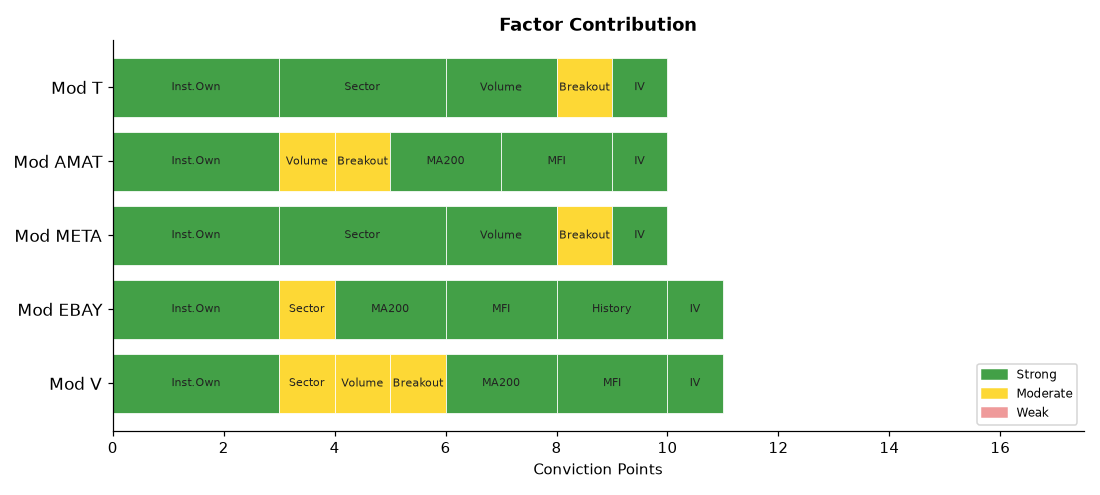
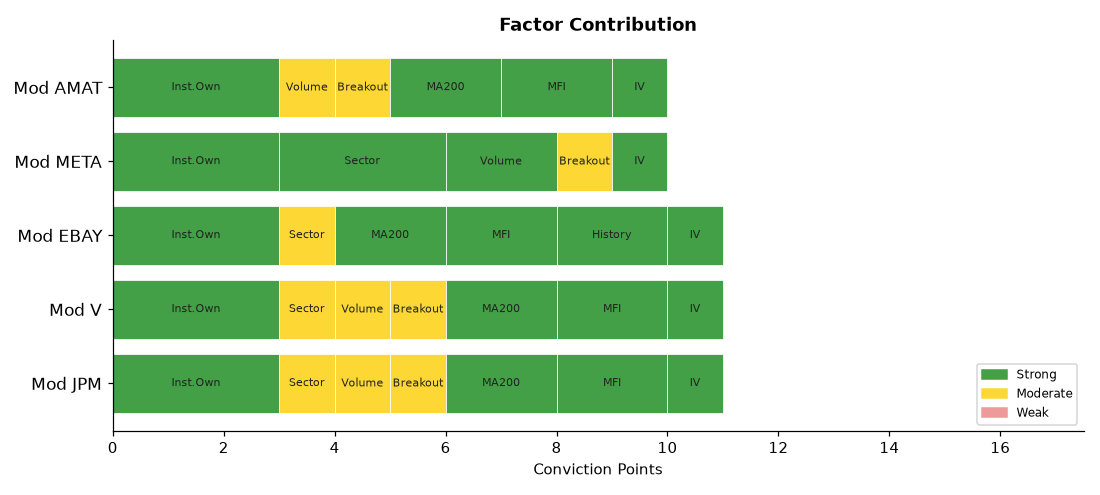
deploy: b7fadf5b06deb90e7ebb92f278722414bdd9750d

diff --git a/index.html b/index.html
@@ -4,7 +4,7 @@
   <meta charset="UTF-8">
   <meta name="viewport" content="width=device-width,initial-scale=1">
   <meta http-equiv="Cache-Control" content="no-cache,no-store,must-revalidate">
-  <title>Stock Breakout Screener — 2026-07-01 23:07</title>
+  <title>Stock Breakout Screener — 2026-07-02 04:00</title>
   <style>
     *{box-sizing:border-box;margin:0;padding:0}
     body{font-family:'Segoe UI',Arial,sans-serif;background:#f0f2f5;
@@ -34,7 +34,7 @@
 
 <div class="hdr">
   <h1>📈 Stock Breakout Screener</h1>
-  <p>Updated: 2026-07-01 23:07 UTC &nbsp;·&nbsp; Phase: After-Hours (4:00–8:00 PM ET) &nbsp;·&nbsp;
+  <p>Updated: 2026-07-02 04:00 UTC &nbsp;·&nbsp; Phase: Pre-Market (before 9:30 AM ET) &nbsp;·&nbsp;
      129 stocks screened &nbsp;·&nbsp; Top 5 by conviction score</p>
 </div>
 
@@ -42,13 +42,13 @@
   <strong style="font-size:14px">Market Sentiment: 🐻 Bearish</strong>
   <div class="bar-wrap" style="margin-top:10px">
     <div style="width:0%;background:#43a047"></div>
-    <div style="width:7%;background:#fdd835"></div>
-    <div style="width:93%;background:#e53935"></div>
+    <div style="width:8%;background:#fdd835"></div>
+    <div style="width:92%;background:#e53935"></div>
   </div>
   <div style="font-size:12px;color:#555">
     🟢 Strong 0% &nbsp;
-    🟡 Moderate 7% &nbsp;
-    🔴 Weak 93%
+    🟡 Moderate 8% &nbsp;
+    🔴 Weak 92%
   </div>
 </div>
 
@@ -60,7 +60,24 @@
           <div style="display:flex;align-items:center;gap:10px;
                       flex-wrap:wrap;margin-bottom:10px">
             <span style="font-size:22px">🟡</span>
-            <span style="font-size:19px;font-weight:700">1. V</span>
+            <span style="font-size:19px;font-weight:700">1. JPM</span>
+            <span style="font-size:12px;color:#666">Financials</span>
+            <span style="margin-left:auto;background:#1a237e;color:#fff;
+                         padding:3px 12px;border-radius:12px;
+                         font-size:13px;font-weight:600">
+              11/17
+            </span>
+          </div>
+          <ul style="margin:0;padding-left:18px;font-size:13px;
+                     color:#333;line-height:1.8"><li style="margin:5px 0"><span style="background:#fffde7;color:#f57f17;padding:2px 7px;border-radius:4px;font-size:11px;">⚠</span> Volume: <b>1.5× average</b> — Above-average activity</li><li style="margin:5px 0"><span style="background:#fffde7;color:#f57f17;padding:2px 7px;border-radius:4px;font-size:11px;">⚠</span> Candle: close <b>$334.07</b> vs open <b>$328.37</b> (+1.7%) — regular market close</li><li style="margin:5px 0"><span style="background:#e8f5e9;color:#2e7d32;padding:2px 7px;border-radius:4px;font-size:11px;">✅</span> 200-Day MA: price <b>$334.07</b> vs MA <b>$306.45</b> — <b>✅ Above</b> long-term trend</li><li style="margin:5px 0"><span style="background:#e8f5e9;color:#2e7d32;padding:2px 7px;border-radius:4px;font-size:11px;">✅</span> Inst. ownership: <b>75.6%</b> · MFI: <b>64.7</b> · Market cap: <b>$895.1B</b></li></ul>
+        </div>
+        <div style="background:#fff;border:1px solid #ddd;border-radius:10px;
+                    padding:16px 20px;margin-bottom:12px;
+                    box-shadow:0 2px 6px rgba(0,0,0,.07)">
+          <div style="display:flex;align-items:center;gap:10px;
+                      flex-wrap:wrap;margin-bottom:10px">
+            <span style="font-size:22px">🟡</span>
+            <span style="font-size:19px;font-weight:700">2. V</span>
             <span style="font-size:12px;color:#666">Financials</span>
             <span style="margin-left:auto;background:#1a237e;color:#fff;
                          padding:3px 12px;border-radius:12px;
@@ -77,7 +94,7 @@
           <div style="display:flex;align-items:center;gap:10px;
                       flex-wrap:wrap;margin-bottom:10px">
             <span style="font-size:22px">🟡</span>
-            <span style="font-size:19px;font-weight:700">2. EBAY</span>
+            <span style="font-size:19px;font-weight:700">3. EBAY</span>
             <span style="font-size:12px;color:#666">Consumer Disc</span>
             <span style="margin-left:auto;background:#1a237e;color:#fff;
                          padding:3px 12px;border-radius:12px;
@@ -86,7 +103,7 @@
             </span>
           </div>
           <ul style="margin:0;padding-left:18px;font-size:13px;
-                     color:#333;line-height:1.8"><li style="margin:5px 0"><span style="background:#ffebee;color:#b71c1c;padding:2px 7px;border-radius:4px;font-size:11px;">❌</span> Volume: <b>0.5× average</b> — Above-average activity</li><li style="margin:5px 0"><span style="background:#ffebee;color:#b71c1c;padding:2px 7px;border-radius:4px;font-size:11px;">❌</span> Candle: close <b>$111.28</b> vs open <b>$111.75</b> (-0.4%) — regular market close</li><li style="margin:5px 0"><span style="background:#e8f5e9;color:#2e7d32;padding:2px 7px;border-radius:4px;font-size:11px;">✅</span> 200-Day MA: price <b>$111.28</b> vs MA <b>$98.12</b> — <b>✅ Above</b> long-term trend</li><li style="margin:5px 0"><span style="background:#e8f5e9;color:#2e7d32;padding:2px 7px;border-radius:4px;font-size:11px;">✅</span> Inst. ownership: <b>96.1%</b> · MFI: <b>65.0</b> · Market cap: <b>$49.4B</b></li><li style="margin:5px 0"><span style="background:#e8f5e9;color:#2e7d32;padding:2px 7px;border-radius:4px;font-size:11px;">✅</span> Last similar breakout: <b>Apr 30, 2026</b> → <b>+9.4%</b> over 10 trading days</li></ul>
+                     color:#333;line-height:1.8"><li style="margin:5px 0"><span style="background:#ffebee;color:#b71c1c;padding:2px 7px;border-radius:4px;font-size:11px;">❌</span> Volume: <b>0.5× average</b> — Above-average activity</li><li style="margin:5px 0"><span style="background:#ffebee;color:#b71c1c;padding:2px 7px;border-radius:4px;font-size:11px;">❌</span> Candle: close <b>$111.28</b> vs open <b>$111.48</b> (-0.2%) — regular market close</li><li style="margin:5px 0"><span style="background:#e8f5e9;color:#2e7d32;padding:2px 7px;border-radius:4px;font-size:11px;">✅</span> 200-Day MA: price <b>$111.28</b> vs MA <b>$98.12</b> — <b>✅ Above</b> long-term trend</li><li style="margin:5px 0"><span style="background:#e8f5e9;color:#2e7d32;padding:2px 7px;border-radius:4px;font-size:11px;">✅</span> Inst. ownership: <b>96.1%</b> · MFI: <b>65.0</b> · Market cap: <b>$49.4B</b></li><li style="margin:5px 0"><span style="background:#e8f5e9;color:#2e7d32;padding:2px 7px;border-radius:4px;font-size:11px;">✅</span> Last similar breakout: <b>Apr 30, 2026</b> → <b>+9.4%</b> over 10 trading days</li></ul>
         </div>
         <div style="background:#fff;border:1px solid #ddd;border-radius:10px;
                     padding:16px 20px;margin-bottom:12px;
@@ -94,7 +111,7 @@
           <div style="display:flex;align-items:center;gap:10px;
                       flex-wrap:wrap;margin-bottom:10px">
             <span style="font-size:22px">🟡</span>
-            <span style="font-size:19px;font-weight:700">3. META</span>
+            <span style="font-size:19px;font-weight:700">4. META</span>
             <span style="font-size:12px;color:#666">Comm. Services</span>
             <span style="margin-left:auto;background:#1a237e;color:#fff;
                          padding:3px 12px;border-radius:12px;
@@ -103,7 +120,7 @@
             </span>
           </div>
           <ul style="margin:0;padding-left:18px;font-size:13px;
-                     color:#333;line-height:1.8"><li style="margin:5px 0"><span style="background:#e8f5e9;color:#2e7d32;padding:2px 7px;border-radius:4px;font-size:11px;">✅</span> Volume: <b>2.7× average</b> — 🔥 Strong unusual activity</li><li style="margin:5px 0"><span style="background:#fffde7;color:#f57f17;padding:2px 7px;border-radius:4px;font-size:11px;">⚠</span> Candle: close <b>$612.91</b> vs open <b>$607.91</b> (+0.8%) — regular market close</li><li style="margin:5px 0"><span style="background:#ffebee;color:#b71c1c;padding:2px 7px;border-radius:4px;font-size:11px;">❌</span> 200-Day MA: price <b>$612.91</b> vs MA <b>$625.20</b> — <b>❌ Below</b> long-term trend</li><li style="margin:5px 0"><span style="background:#e8f5e9;color:#2e7d32;padding:2px 7px;border-radius:4px;font-size:11px;">✅</span> Inst. ownership: <b>79.3%</b> · MFI: <b>46.8</b> · Market cap: <b>$1555.8B</b></li></ul>
+                     color:#333;line-height:1.8"><li style="margin:5px 0"><span style="background:#e8f5e9;color:#2e7d32;padding:2px 7px;border-radius:4px;font-size:11px;">✅</span> Volume: <b>2.7× average</b> — 🔥 Strong unusual activity</li><li style="margin:5px 0"><span style="background:#fffde7;color:#f57f17;padding:2px 7px;border-radius:4px;font-size:11px;">⚠</span> Candle: close <b>$612.91</b> vs open <b>$607.91</b> (+0.8%) — regular market close</li><li style="margin:5px 0"><span style="background:#ffebee;color:#b71c1c;padding:2px 7px;border-radius:4px;font-size:11px;">❌</span> 200-Day MA: price <b>$612.91</b> vs MA <b>$625.20</b> — <b>❌ Below</b> long-term trend</li><li style="margin:5px 0"><span style="background:#e8f5e9;color:#2e7d32;padding:2px 7px;border-radius:4px;font-size:11px;">✅</span> Inst. ownership: <b>79.3%</b> · MFI: <b>46.9</b> · Market cap: <b>$1555.8B</b></li></ul>
         </div>
         <div style="background:#fff;border:1px solid #ddd;border-radius:10px;
                     padding:16px 20px;margin-bottom:12px;
@@ -111,7 +128,7 @@
           <div style="display:flex;align-items:center;gap:10px;
                       flex-wrap:wrap;margin-bottom:10px">
             <span style="font-size:22px">🟡</span>
-            <span style="font-size:19px;font-weight:700">4. AMAT</span>
+            <span style="font-size:19px;font-weight:700">5. AMAT</span>
             <span style="font-size:12px;color:#666">Technology</span>
             <span style="margin-left:auto;background:#1a237e;color:#fff;
                          padding:3px 12px;border-radius:12px;
@@ -120,24 +137,7 @@
             </span>
           </div>
           <ul style="margin:0;padding-left:18px;font-size:13px;
-                     color:#333;line-height:1.8"><li style="margin:5px 0"><span style="background:#fffde7;color:#f57f17;padding:2px 7px;border-radius:4px;font-size:11px;">⚠</span> Volume: <b>1.9× average</b> — Above-average activity</li><li style="margin:5px 0"><span style="background:#fffde7;color:#f57f17;padding:2px 7px;border-radius:4px;font-size:11px;">⚠</span> Candle: close <b>$650.91</b> vs open <b>$668.41</b> (-2.6%) — regular market close</li><li style="margin:5px 0"><span style="background:#e8f5e9;color:#2e7d32;padding:2px 7px;border-radius:4px;font-size:11px;">✅</span> 200-Day MA: price <b>$650.91</b> vs MA <b>$400.97</b> — <b>✅ Above</b> long-term trend</li><li style="margin:5px 0"><span style="background:#e8f5e9;color:#2e7d32;padding:2px 7px;border-radius:4px;font-size:11px;">✅</span> Inst. ownership: <b>85.1%</b> · MFI: <b>65.9</b> · Market cap: <b>$516.8B</b></li><li style="margin:5px 0"><span style="background:#ffebee;color:#b71c1c;padding:2px 7px;border-radius:4px;font-size:11px;">❌</span> Last similar breakout: <b>Jun 30, 2026</b> → <b>-10.0%</b> over 10 trading days</li></ul>
-        </div>
-        <div style="background:#fff;border:1px solid #ddd;border-radius:10px;
-                    padding:16px 20px;margin-bottom:12px;
-                    box-shadow:0 2px 6px rgba(0,0,0,.07)">
-          <div style="display:flex;align-items:center;gap:10px;
-                      flex-wrap:wrap;margin-bottom:10px">
-            <span style="font-size:22px">🟡</span>
-            <span style="font-size:19px;font-weight:700">5. T</span>
-            <span style="font-size:12px;color:#666">Comm. Services</span>
-            <span style="margin-left:auto;background:#1a237e;color:#fff;
-                         padding:3px 12px;border-radius:12px;
-                         font-size:13px;font-weight:600">
-              10/17
-            </span>
-          </div>
-          <ul style="margin:0;padding-left:18px;font-size:13px;
-                     color:#333;line-height:1.8"><li style="margin:5px 0"><span style="background:#e8f5e9;color:#2e7d32;padding:2px 7px;border-radius:4px;font-size:11px;">✅</span> Volume: <b>2.4× average</b> — 🔥 Strong unusual activity</li><li style="margin:5px 0"><span style="background:#fffde7;color:#f57f17;padding:2px 7px;border-radius:4px;font-size:11px;">⚠</span> Candle: close <b>$20.48</b> vs open <b>$20.63</b> (-0.7%) — regular market close</li><li style="margin:5px 0"><span style="background:#ffebee;color:#b71c1c;padding:2px 7px;border-radius:4px;font-size:11px;">❌</span> 200-Day MA: price <b>$20.48</b> vs MA <b>$25.55</b> — <b>❌ Below</b> long-term trend</li><li style="margin:5px 0"><span style="background:#e8f5e9;color:#2e7d32;padding:2px 7px;border-radius:4px;font-size:11px;">✅</span> Inst. ownership: <b>69.2%</b> · MFI: <b>31.9</b> · Market cap: <b>$142.3B</b></li></ul>
+                     color:#333;line-height:1.8"><li style="margin:5px 0"><span style="background:#fffde7;color:#f57f17;padding:2px 7px;border-radius:4px;font-size:11px;">⚠</span> Volume: <b>1.9× average</b> — Above-average activity</li><li style="margin:5px 0"><span style="background:#fffde7;color:#f57f17;padding:2px 7px;border-radius:4px;font-size:11px;">⚠</span> Candle: close <b>$650.91</b> vs open <b>$668.41</b> (-2.6%) — regular market close</li><li style="margin:5px 0"><span style="background:#e8f5e9;color:#2e7d32;padding:2px 7px;border-radius:4px;font-size:11px;">✅</span> 200-Day MA: price <b>$650.91</b> vs MA <b>$400.97</b> — <b>✅ Above</b> long-term trend</li><li style="margin:5px 0"><span style="background:#e8f5e9;color:#2e7d32;padding:2px 7px;border-radius:4px;font-size:11px;">✅</span> Inst. ownership: <b>85.1%</b> · MFI: <b>65.8</b> · Market cap: <b>$516.8B</b></li><li style="margin:5px 0"><span style="background:#ffebee;color:#b71c1c;padding:2px 7px;border-radius:4px;font-size:11px;">❌</span> Last similar breakout: <b>Jun 25, 2026</b> → <b>-2.6%</b> over 10 trading days</li></ul>
         </div>
 
 
@@ -168,6 +168,24 @@
   
         <tr>
           <td style="font-weight:700;text-align:left;padding-left:10px">
+            🟡 JPM</td>
+          <td style="background:#fff9c4">1.5×</td>
+          <td style="background:#fff9c4">+1.7%</td>
+          <td style="background:#c8e6c9">
+            ▲ Above</td>
+          <td style="background:#c8e6c9">
+            75.6%</td>
+          <td style="background:#c8e6c9">
+            64.7</td>
+          <td style="background:#fff9c4">Financials</td>
+          <td style="background:#c8e6c9">
+            128.9%</td>
+          <td style="background:#ffcdd2">
+            N/A</td>
+          <td style="font-weight:800;font-size:15px">11/17</td>
+        </tr>
+        <tr>
+          <td style="font-weight:700;text-align:left;padding-left:10px">
             🟡 V</td>
           <td style="background:#fff9c4">1.6×</td>
           <td style="background:#fff9c4">+1.9%</td>
@@ -179,7 +197,7 @@
             74.9</td>
           <td style="background:#fff9c4">Financials</td>
           <td style="background:#c8e6c9">
-            115.9%</td>
+            162.3%</td>
           <td style="background:#ffcdd2">
             N/A</td>
           <td style="font-weight:800;font-size:15px">11/17</td>
@@ -188,7 +206,7 @@
           <td style="font-weight:700;text-align:left;padding-left:10px">
             🟡 EBAY</td>
           <td style="background:#ffcdd2">0.5×</td>
-          <td style="background:#ffcdd2">-0.4%</td>
+          <td style="background:#ffcdd2">-0.2%</td>
           <td style="background:#c8e6c9">
             ▲ Above</td>
           <td style="background:#c8e6c9">
@@ -197,7 +215,7 @@
             65.0</td>
           <td style="background:#fff9c4">Consumer Disc</td>
           <td style="background:#c8e6c9">
-            95.3%</td>
+            126.8%</td>
           <td style="background:#c8e6c9">
             +9.4%</td>
           <td style="font-weight:800;font-size:15px">11/17</td>
@@ -212,10 +230,10 @@
           <td style="background:#c8e6c9">
             79.3%</td>
           <td style="background:#ffcdd2">
-            46.8</td>
+            46.9</td>
           <td style="background:#c8e6c9">Comm. Services</td>
           <td style="background:#c8e6c9">
-            90.7%</td>
+            199.1%</td>
           <td style="background:#ffcdd2">
             N/A</td>
           <td style="font-weight:800;font-size:15px">10/17</td>
@@ -230,30 +248,12 @@
           <td style="background:#c8e6c9">
             85.1%</td>
           <td style="background:#c8e6c9">
-            65.9</td>
+            65.8</td>
           <td style="background:#ffcdd2">Technology</td>
           <td style="background:#c8e6c9">
-            179.9%</td>
+            254.4%</td>
           <td style="background:#ffcdd2">
-            -10.0%</td>
-          <td style="font-weight:800;font-size:15px">10/17</td>
-        </tr>
-        <tr>
-          <td style="font-weight:700;text-align:left;padding-left:10px">
-            🟡 T</td>
-          <td style="background:#c8e6c9">2.4×</td>
-          <td style="background:#fff9c4">-0.7%</td>
-          <td style="background:#ffcdd2">
-            ▼ Below</td>
-          <td style="background:#c8e6c9">
-            69.2%</td>
-          <td style="background:#ffcdd2">
-            31.9</td>
-          <td style="background:#c8e6c9">Comm. Services</td>
-          <td style="background:#c8e6c9">
-            190.2%</td>
-          <td style="background:#ffcdd2">
-            N/A</td>
+            -2.6%</td>
           <td style="font-weight:800;font-size:15px">10/17</td>
         </tr>
 </table>
@@ -367,7 +367,7 @@
         <li><b>Scoring weights:</b>
             Inst.Own(3) · Sector(3) · Volume(2) · Breakout(2) ·
             MA200(2) · MFI(2) · History(2) · IV(1) = 17pts max</li>
-        <li><b>Run time:</b> 2026-07-01 23:07 UTC — Market phase: After-Hours (4:00–8:00 PM ET)</li>
+        <li><b>Run time:</b> 2026-07-02 04:00 UTC — Market phase: Pre-Market (before 9:30 AM ET)</li>
       </ul>
     </div>
 
